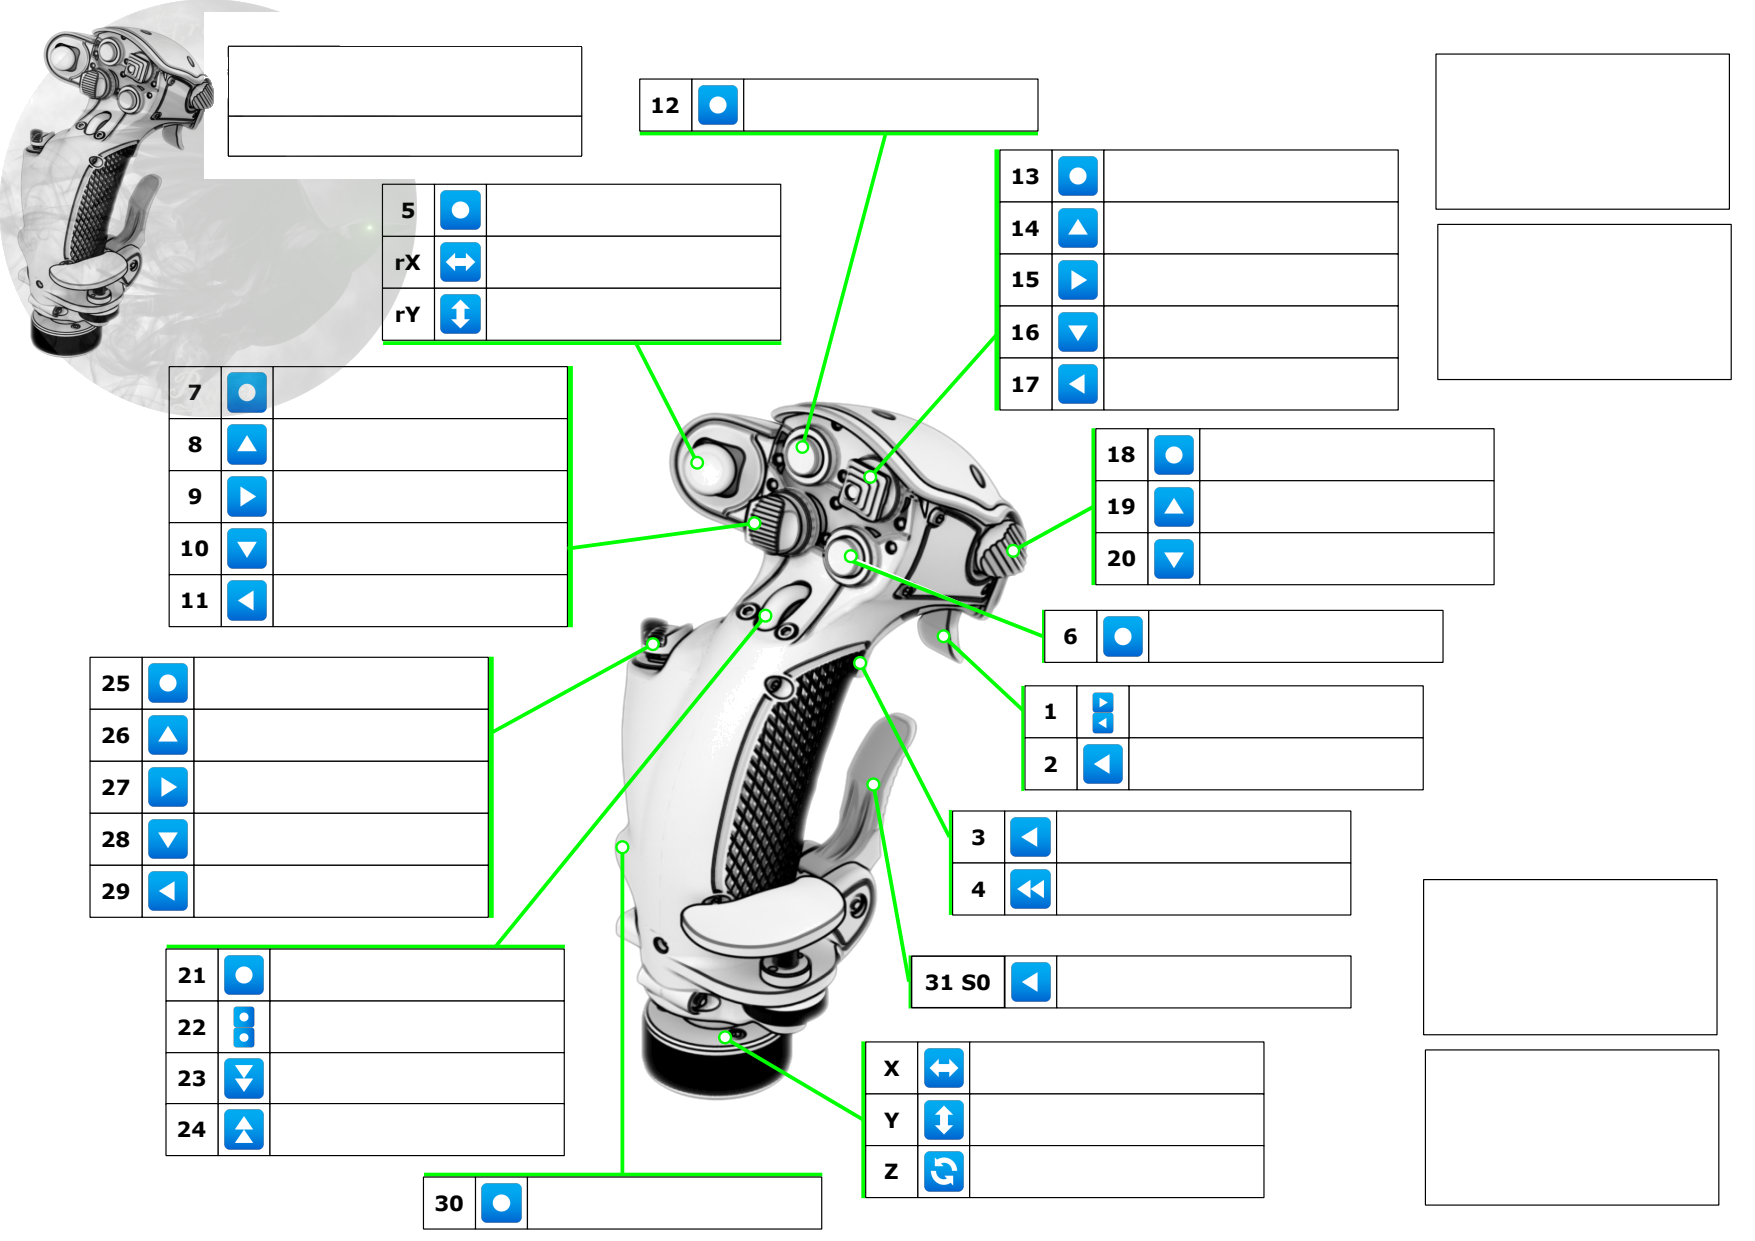
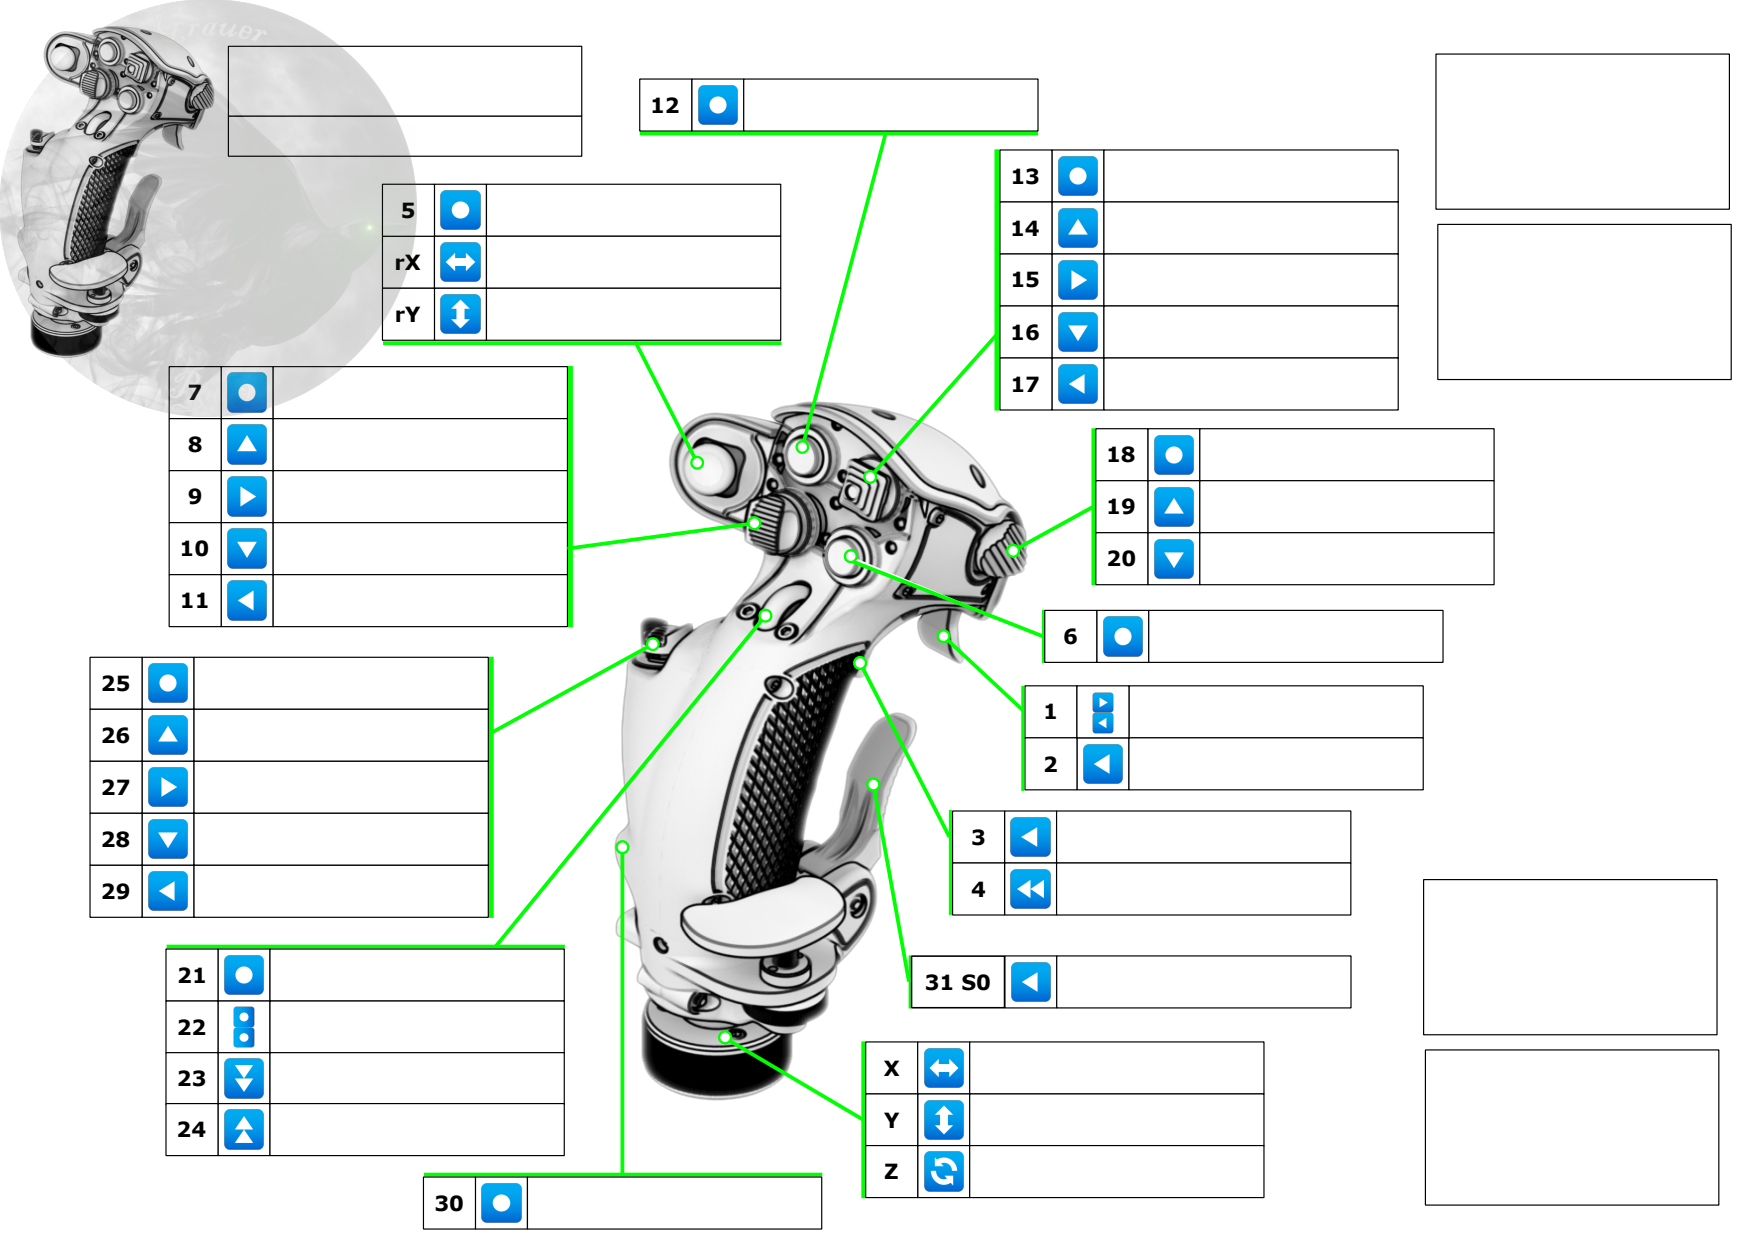
fix: Virpil Alpha R Eingabe-Boxen wieder weiß (v0.5.13)
PNG auf Stand v0.4.15 zurückgesetzt — largeArea=1 aus v0.5.1 hatte
die ~44.500 px großen Eingabe-Boxen fälschlich transparent gemacht.

Changed region(s): [[0.0923, 0.0, 0.2462, 0.1531]]

diff --git a/index.html b/index.html
@@ -658,10 +658,10 @@
   </div>
 </div>
 
-<div id="statusbar">STATUS: <span id="statmsg">Bereit</span> &nbsp;|&nbsp; Geändert: <span id="changed-count">0</span> &nbsp;|&nbsp; Version: <span id="app-version">v0.5.12</span> &nbsp;|&nbsp; Update: <span id="update-status">prüfen...</span></div>
+<div id="statusbar">STATUS: <span id="statmsg">Bereit</span> &nbsp;|&nbsp; Geändert: <span id="changed-count">0</span> &nbsp;|&nbsp; Version: <span id="app-version">v0.5.13</span> &nbsp;|&nbsp; Update: <span id="update-status">prüfen...</span></div>
 
 <script>
-const APP_VERSION = 'v0.5.12';
+const APP_VERSION = 'v0.5.13';
 const UPDATE_API_URL = 'https://api.github.com/repos/Xharig-1/Joystick-Map/releases/latest';
 const SC_VERSION_API_URL = 'https://api.star-citizen.wiki/api/v2/game-versions';
 const MODES = [

diff --git a/ROADMAP.md b/ROADMAP.md
@@ -1,6 +1,6 @@
 # Roadmap
 
-Aktuelle Version: `v0.5.12`
+Aktuelle Version: `v0.5.13`
 
 ## Zielbild
 
@@ -63,6 +63,8 @@ Geplant ist ein Vorlagen-System, bei dem Nutzer ihren Stick aus einer Liste ausw
 | v0.5.9 | Reset-Button im Listen-Tab ✓ |
 | v0.5.10 | Overlay-Tagging bereinigt ✓ |
 | v0.5.11 | Farb-Streifen live-Update ✓ |
+| v0.5.12 | Dokumentation vollständig aktualisiert; die Projekt-Doku mit Release-Checkliste ✓ |
+| v0.5.13 | Alpha R Eingabe-Boxen wieder weiß (PNG-Fix) ✓ |
 | v0.6.0 | Profil-Umschalter |
 | v0.7.0 | Quick Reference Tab |
 | v0.8.0 | Drucken / PDF |

diff --git a/CHANGELOG.md b/CHANGELOG.md
@@ -4,6 +4,12 @@ Alle wichtigen Änderungen an diesem Projekt werden hier dokumentiert.
 
 Das Projekt nutzt SemVer: `MAJOR.MINOR.PATCH`.
 
+## v0.5.13 - 2026-05-23
+
+### Behoben
+
+- Virpil Alpha R: Eingabe-Boxen waren durch `largeArea=1` in v0.5.1 fälschlich transparent gemacht worden. Template-PNG auf Stand v0.4.15 (largeArea=50000) zurückgesetzt — Boxen sind wieder weiß.
+
 ## v0.5.12 - 2026-05-23
 
 ### Dokumentation
